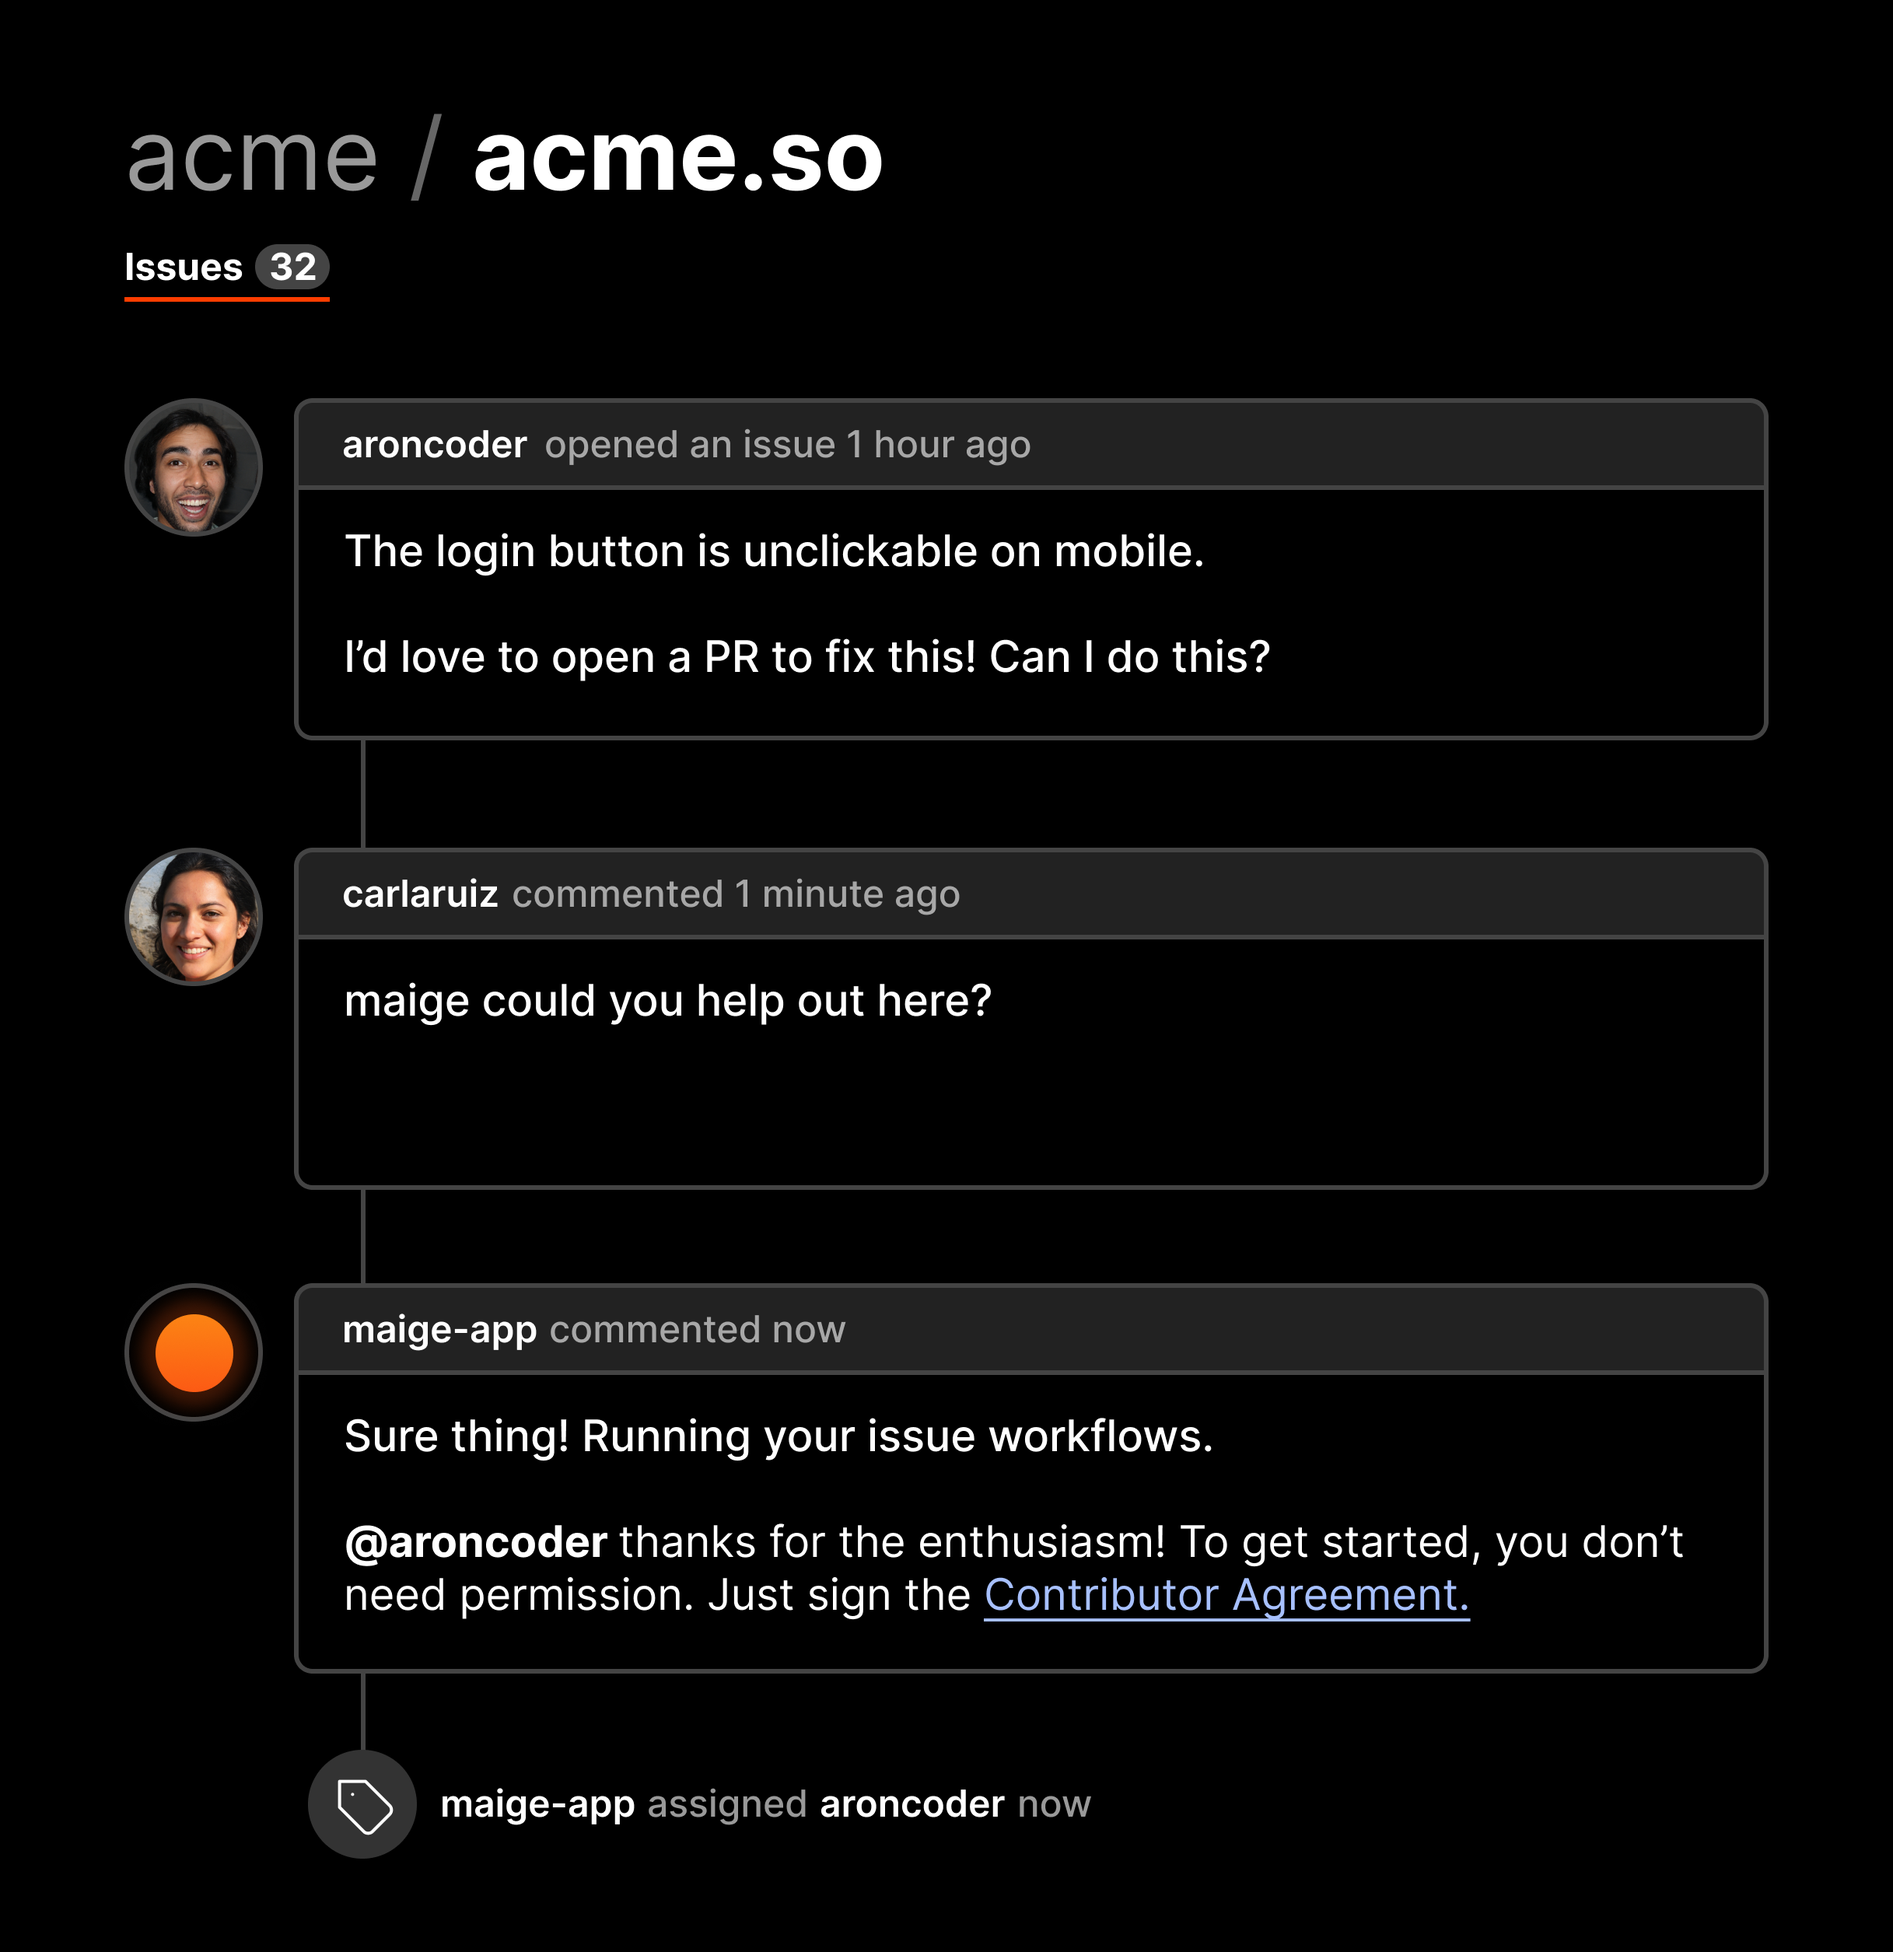
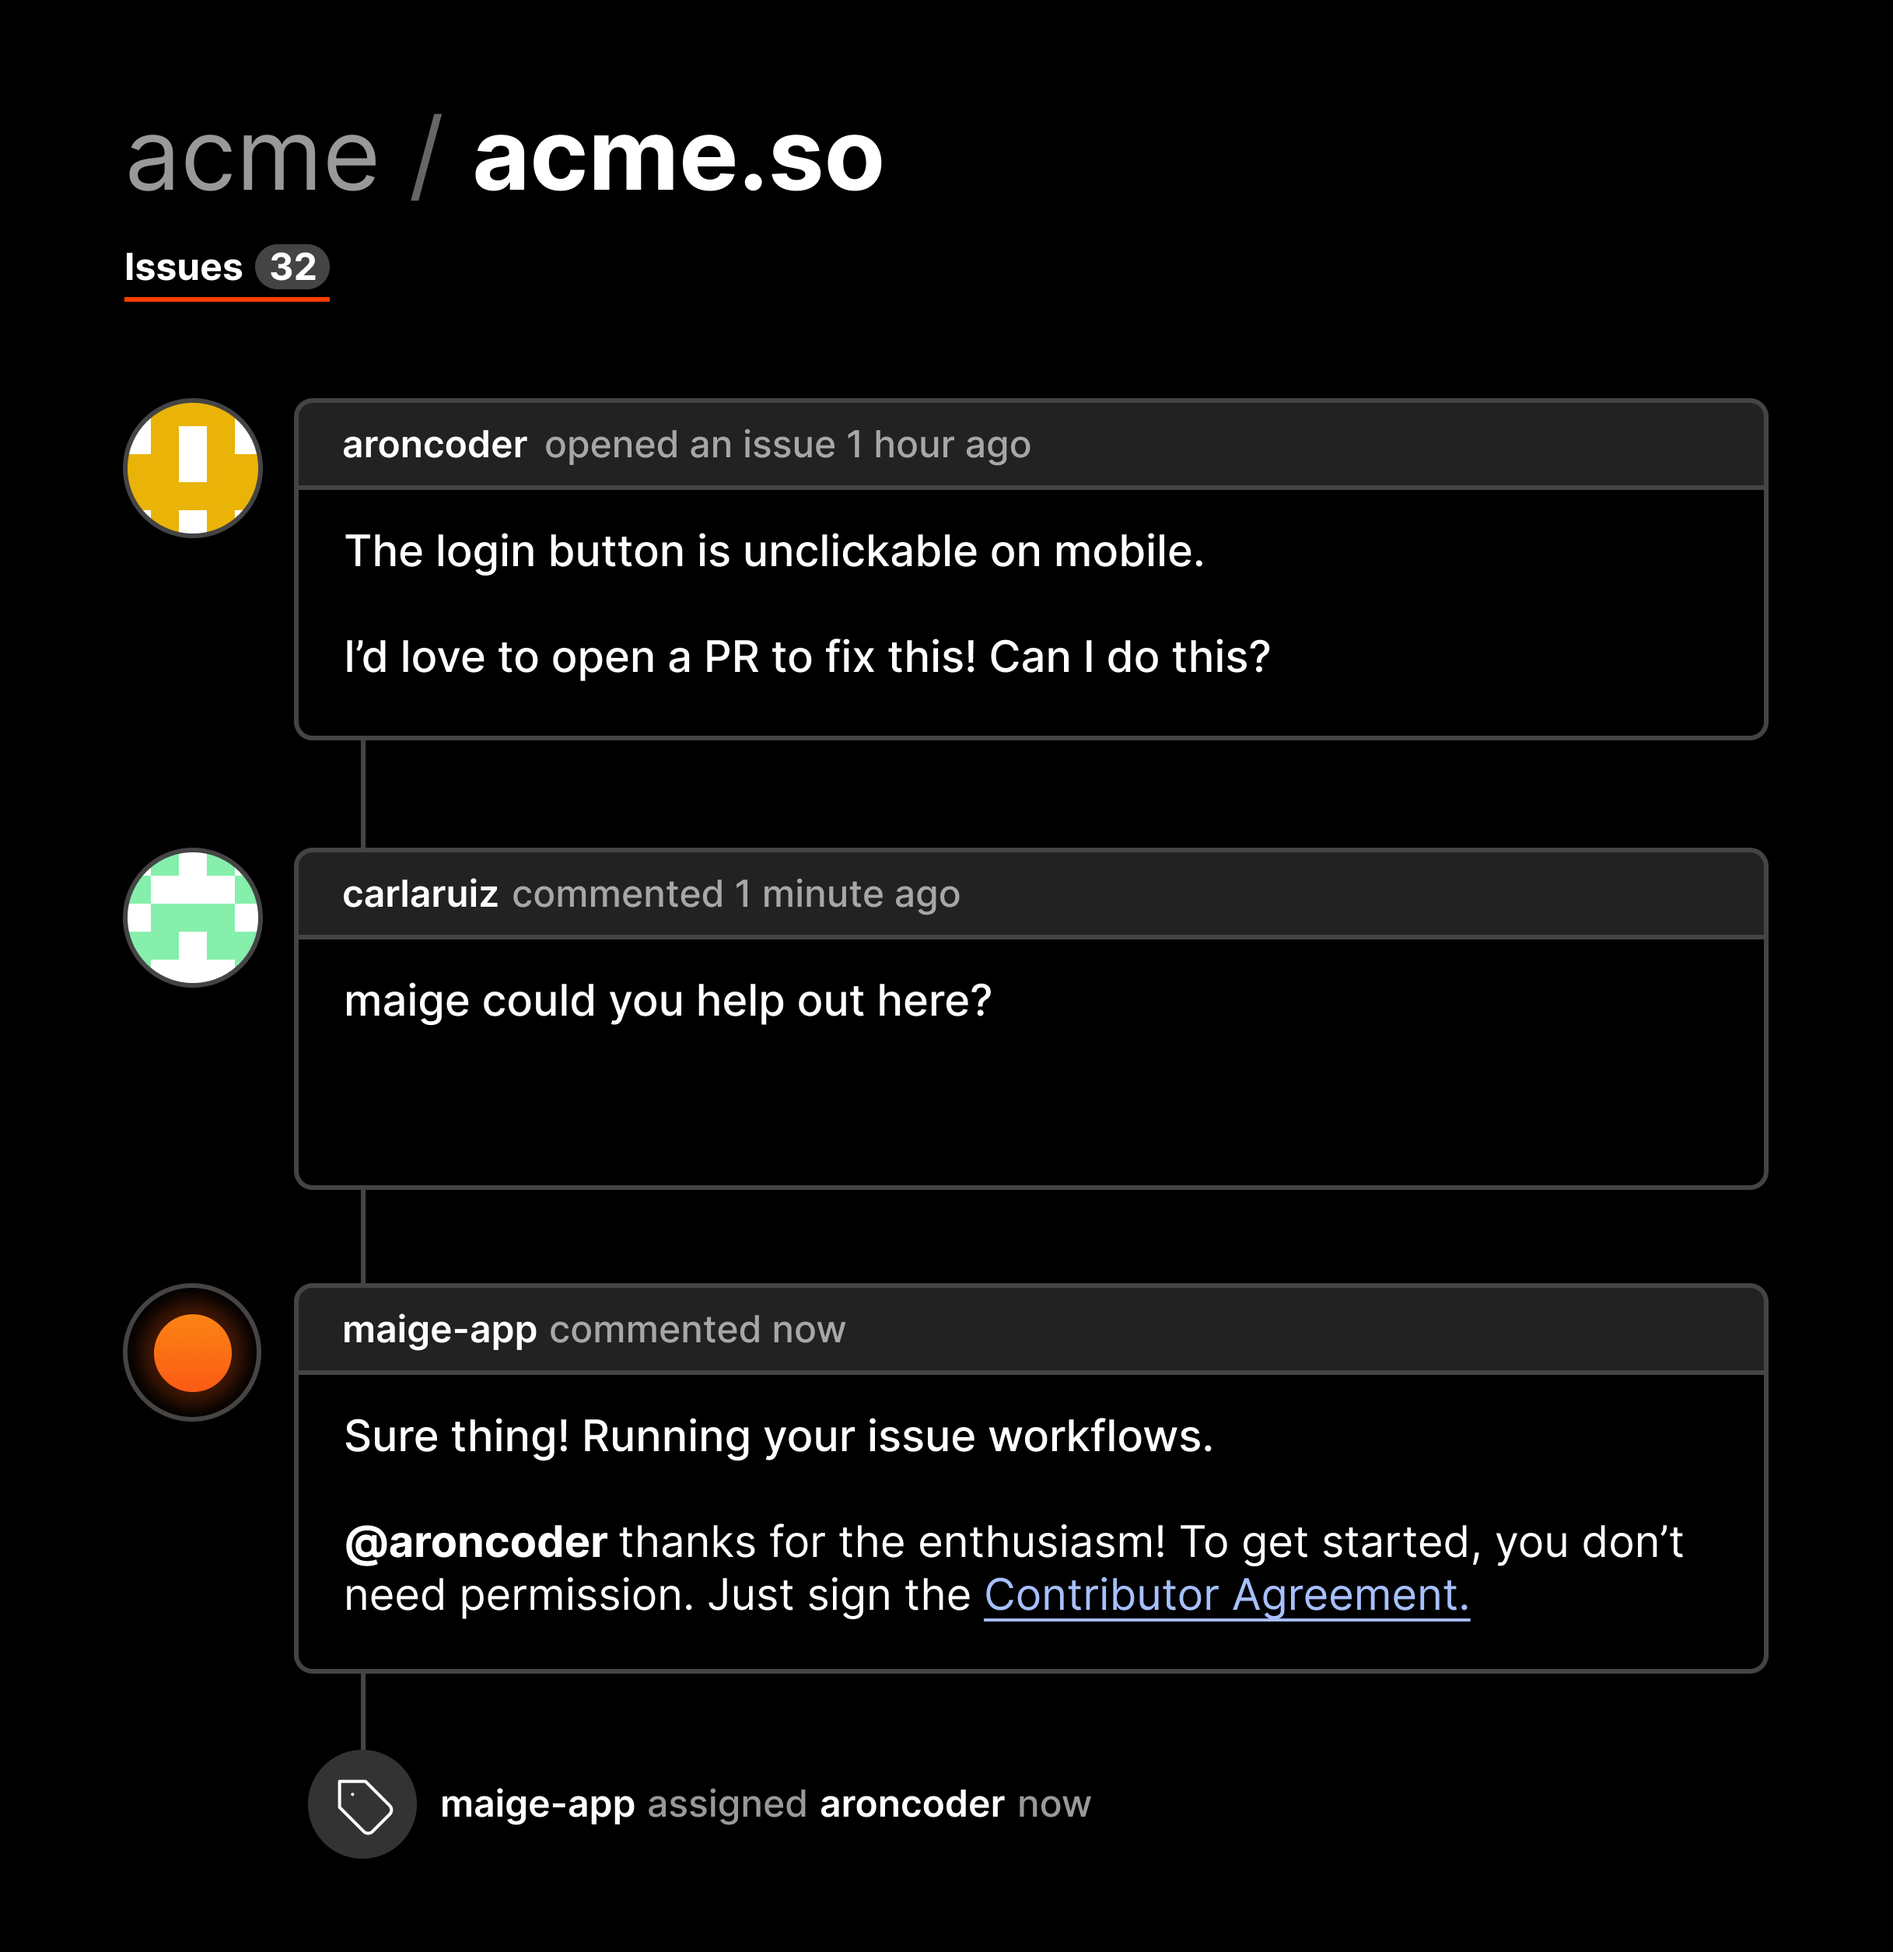
Remove faces from mockups

Changed region(s): [[0.0624, 0.1865, 0.1561, 0.2797], [0.0624, 0.4351, 0.1561, 0.5283]]

diff --git a/lib/components/logos/Maige.tsx b/lib/components/logos/Maige.tsx
@@ -1,8 +1,15 @@
-export const Maige = ({className}: {className?: string}) => {
+export const Maige = ({
+	className,
+	style
+}: {
+	className?: string
+	style?: React.CSSProperties
+}) => {
 	return (
 		<svg
 			viewBox='0 0 500 500'
 			className={className}
+			style={style}
 			fill='none'
 			xmlns='http://www.w3.org/2000/svg'>
 			<path
